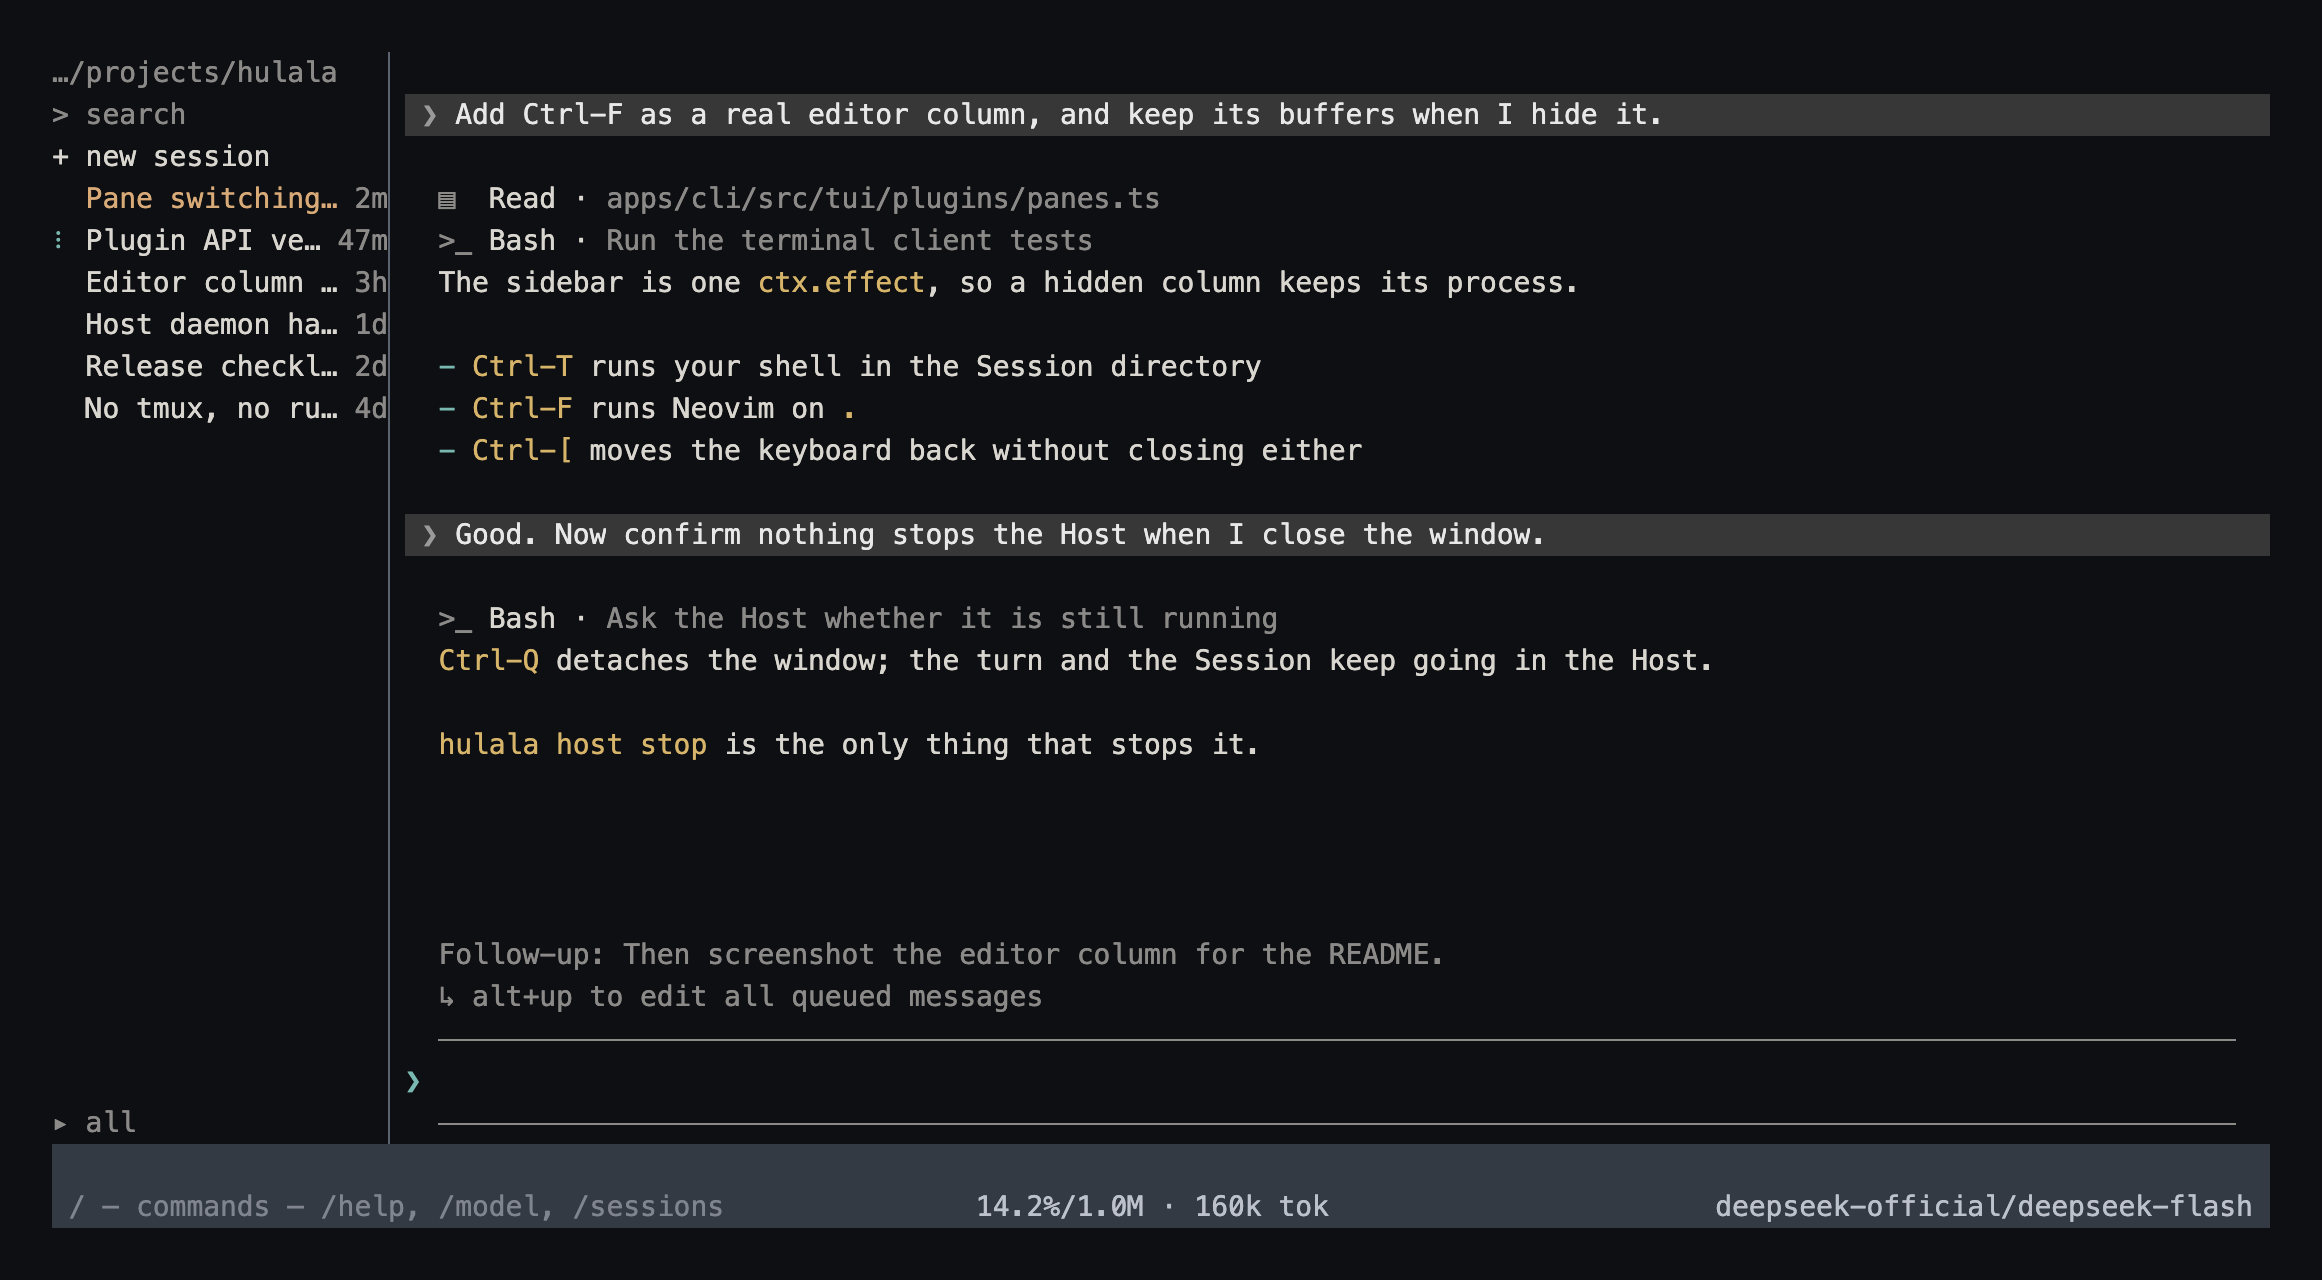
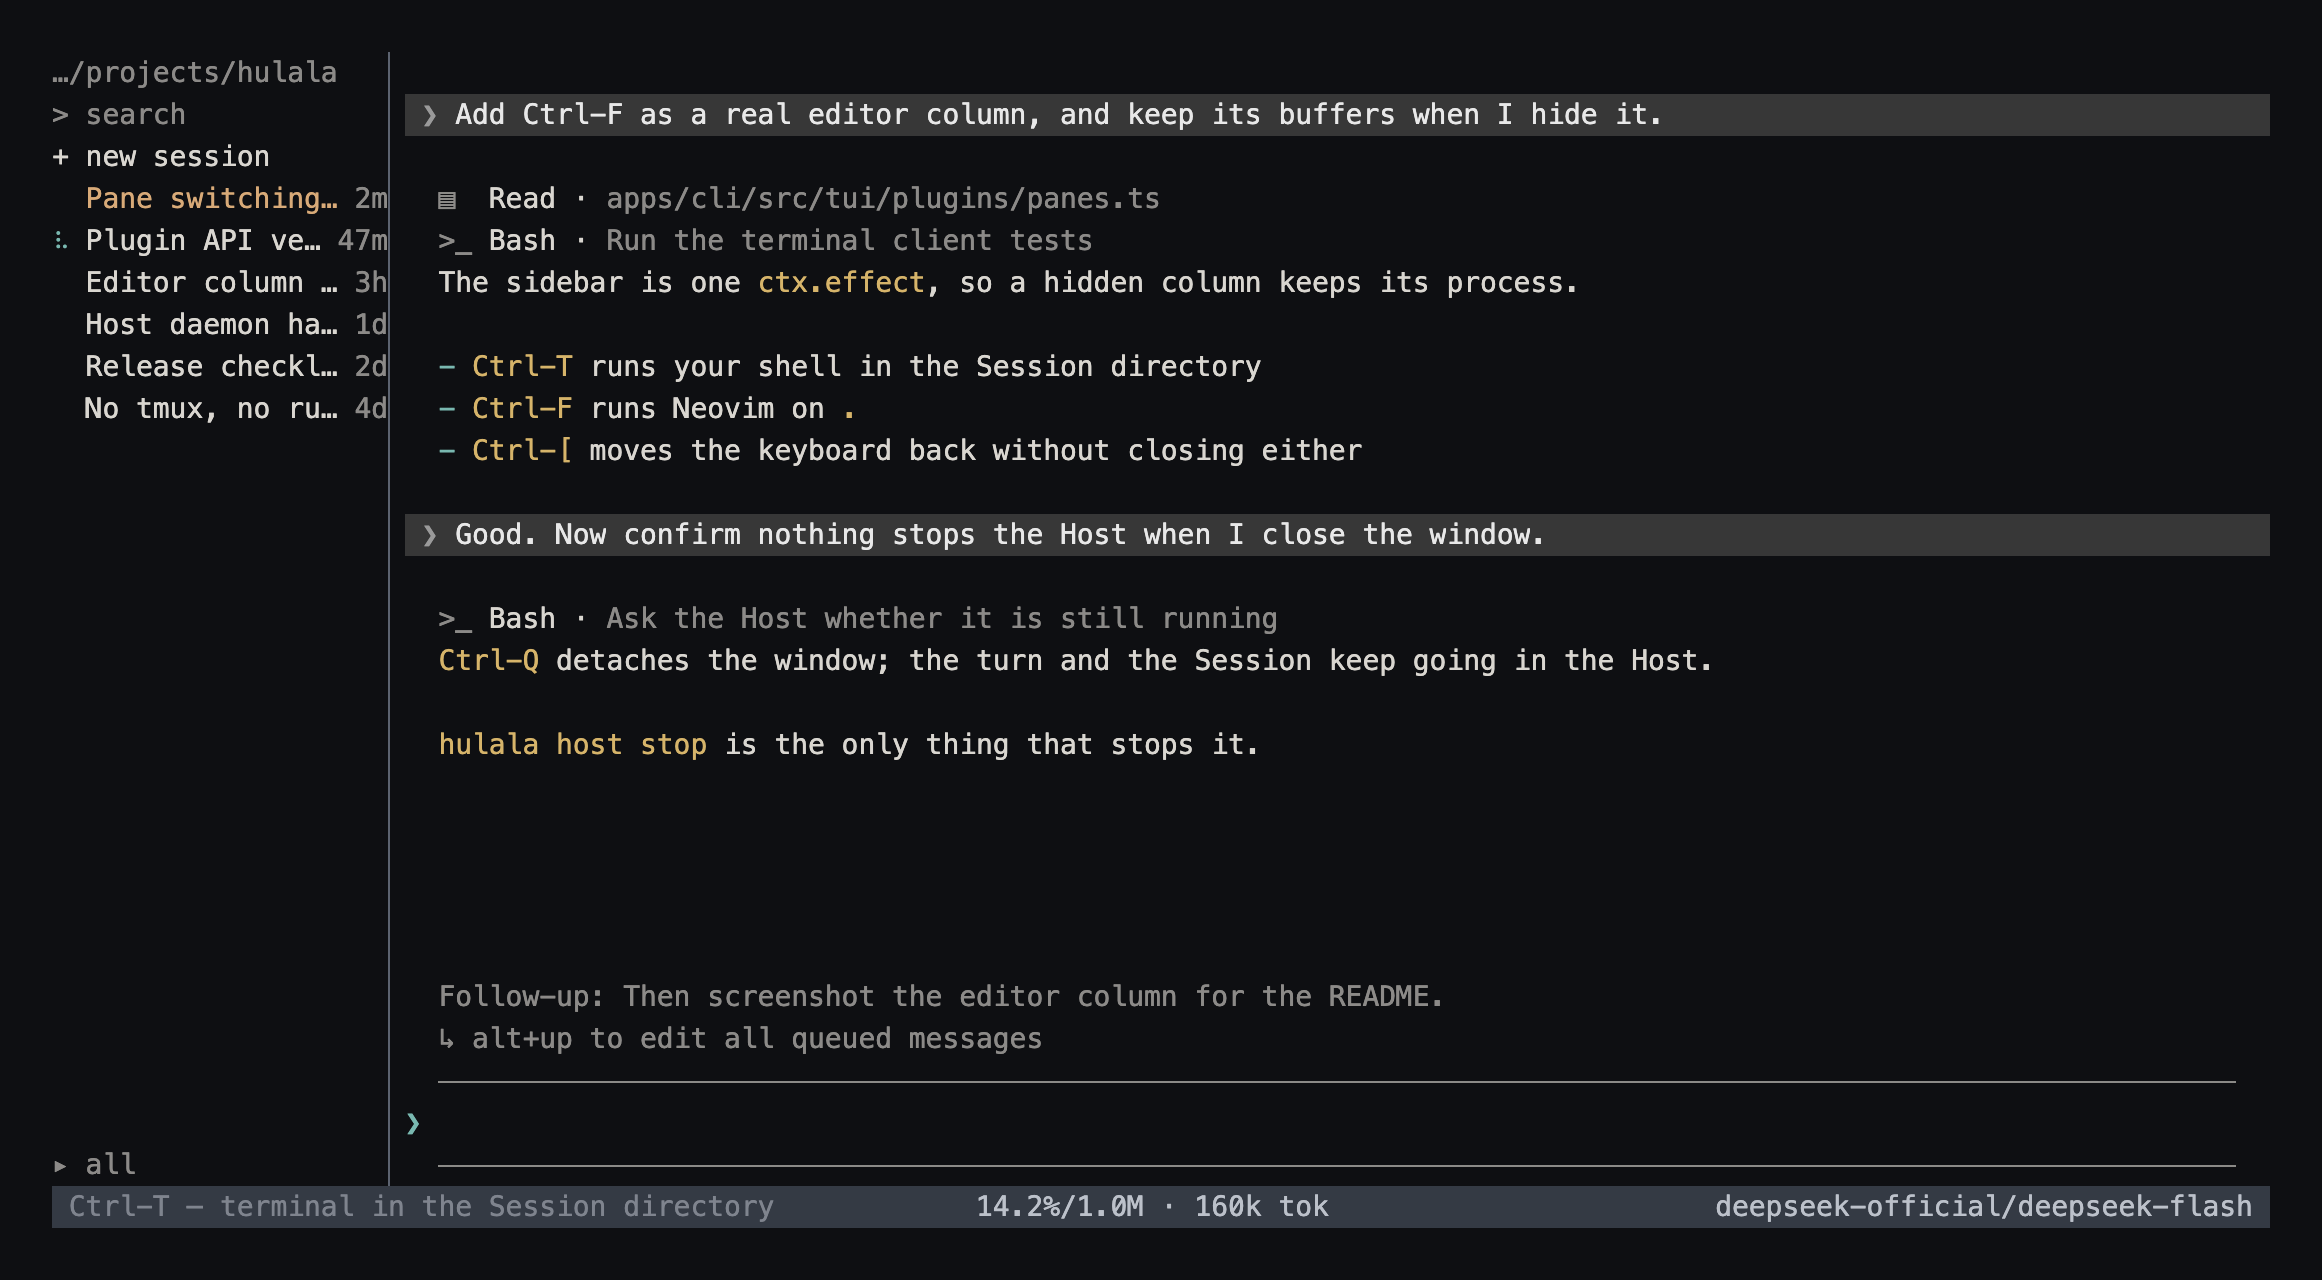
Keep the status band one row tall
The band is the frame's last row, not a panel: the extra blank row I put above
its text made the footer occupy two rows and pushed the columns up for nothing.
The band is back to a single row, with the usage hint on the left, the centred
readings and the model on the right inside it.

Release 0.2.5.

Changed region(s): [[0.0, 0.875, 0.9922, 0.9688], [0.186, 0.7188, 0.6202, 0.8438]]

diff --git a/apps/cli/tests/client/layout.test.ts b/apps/cli/tests/client/layout.test.ts
@@ -41,16 +41,15 @@ test('a long transcript never takes height away from the composer', () => {
   const frame = renderLayoutFrame(layout.root, 60, 20, () => undefined)
   const [transcript, dock] = frame.root.children
   expect(frame.lines).toHaveLength(20)
-  expect(transcript?.rect.height).toBe(13) // 20 - dock; the transcript reaches the top
-  expect(dock?.rect.height).toBe(7) // pending + cwd + composer + band (air row + row)
-  expect(dock?.children.map(child => child.rect.height)).toEqual([1, 1, 3, 2])
-  expect(frame.lines.slice(-7)).toEqual([
+  expect(transcript?.rect.height).toBe(14) // 20 - dock; the transcript reaches the top
+  expect(dock?.rect.height).toBe(6) // pending + cwd + composer + band
+  expect(dock?.children.map(child => child.rect.height)).toEqual([1, 1, 3, 1])
+  expect(frame.lines.slice(-6)).toEqual([
     'pending'.padEnd(60),
     'cwd'.padEnd(60),
     'composer'.padEnd(60),
     'composer'.padEnd(60),
     'composer'.padEnd(60),
-    ' '.repeat(60), // the band's air row
     'status'.padEnd(60),
   ])
 })
@@ -66,8 +65,7 @@ test('the composer keeps both rules around the arrow when the transcript is long
   // Fill the terminal the way a few turns of a Session do.
   const frame = renderLayoutFrame(layout.root, 80, 30, () => undefined)
   const rows = frame.lines.map(strip)
-  // The band is two rows (air, then text), the composer the three above it.
-  const composerRows = rows.slice(-5, -2)
+  const composerRows = rows.slice(-4, -1)
   expect(composerRows).toHaveLength(3)
   // The rules stop at the body's gutter on both sides: they belong to the
   // composer, and a rule that reached the column edge would touch a divider.
@@ -90,15 +88,15 @@ test('the columns end on the last row above the status band', () => {
   const frame = renderLayoutFrame(layout.root, 120, 24, () => undefined)
   const rows = frame.lines.map(strip)
   const [columns, status] = frame.root.children
-  // The band and its air row are the only rows the columns do not own.
-  expect(columns?.rect.height).toBe(22)
-  expect(status?.rect.height).toBe(2)
+  // The band is the only row the columns do not own.
+  expect(columns?.rect.height).toBe(23)
+  expect(status?.rect.height).toBe(1)
   expect(rows.at(-1)?.startsWith('status')).toBe(true)
   // There is no frame rule row: the only horizontal lines are the composer's,
   // and they are inset inside the conversation column.
   expect(rows.some(row => /^─+$/u.test(row))).toBe(false)
-  expect(rows.at(-3)).toContain('  ─')
-  expect(rows.at(-3)?.endsWith('  ')).toBe(true)
+  expect(rows.at(-2)).toContain('  ─')
+  expect(rows.at(-2)?.endsWith('  ')).toBe(true)
 })
 
 test('a short terminal drops chrome rows instead of clipping the composer', () => {
@@ -131,8 +129,8 @@ test('the editor column splits the width without touching the composer height', 
   const frame = renderLayoutFrame(layout.root, 100, 24, () => undefined)
   const [columns, status] = frame.root.children
   expect(frame.lines).toHaveLength(24)
-  expect(columns?.rect.height).toBe(22) // 24 - band (air row + row); the editor reaches the top
-  expect(status?.rect.height).toBe(2)
+  expect(columns?.rect.height).toBe(23) // 24 - band; the editor reaches the top
+  expect(status?.rect.height).toBe(1)
   // One gap column between the two columns, and the status bar spans both.
   const [conversation, divider, pane] = columns?.children ?? []
   expect(divider?.rect.width).toBe(1)
@@ -140,10 +138,10 @@ test('the editor column splits the width without touching the composer height', 
   expect(conversation?.rect.width).toBe(50)
   expect(pane?.rect.width).toBe(49)
   expect(pane?.rect.x).toBe(51) // one divider column, then the pane
-  expect(pane?.rect.height).toBe(22) // 24 - band (air row + row)
+  expect(pane?.rect.height).toBe(23) // 24 - band
   // The composer keeps its three rows inside the narrower left column.
   const leftChildren = conversation?.children ?? []
-  expect(leftChildren.map(child => child.rect.height)).toEqual([17, 1, 1, 3])
+  expect(leftChildren.map(child => child.rect.height)).toEqual([18, 1, 1, 3])
   const row = strip(frame.lines[5] ?? '')
   expect(row).toContain('line') // the transcript still paints the left column
   expect(row).toContain('nvim') // and the editor paints the right one
@@ -186,7 +184,7 @@ test('the side columns fill the frame when the conversation is put away', () => 
     statusBar: slab('status', 1),
   }).root, 100, 24, () => undefined)
   const [columns, status] = frame.root.children
-  expect(status?.rect.height).toBe(2)
+  expect(status?.rect.height).toBe(1)
   // The pane keeps its width and the rail absorbs the rest of the frame.
   const [railBox, divider, paneBox] = columns?.children ?? []
   expect(railBox?.rect).toMatchObject({ x: 0, width: 59 })
@@ -266,9 +264,9 @@ test('the rail, the conversation and the editor each get their columns', () => {
   expect(divider?.rect.x).toBe(87)
   expect(editor?.rect).toMatchObject({ x: 88, width: 32 })
   // The band is one surface across the whole frame, from the first column to the
-  // last, with a row of air above its text.
+  // last, and it is one row tall.
   const footer = withEditor.root.children[1]
-  expect(footer?.rect).toMatchObject({ x: 0, width: 120, y: 22, height: 2 })
+  expect(footer?.rect).toMatchObject({ x: 0, width: 120, y: 23, height: 1 })
   const statusLine = strip(withEditor.lines.at(-1) ?? '')
   expect(statusLine.trim()).toStartWith('status')
 

diff --git a/apps/cli/src/tui/view/layout.ts b/apps/cli/src/tui/view/layout.ts
@@ -56,29 +56,6 @@ function chatEntries(options: TerminalLayoutOptions): NonNullable<ConstructorPar
   ]
 }
 
-/**
- * The status band with a row of air above its text.
- *
- * The band is a filled surface, and text sitting directly under the composer's
- * bottom rule reads as if it were pressed against it. One band-coloured blank
- * row gives the text the same gutter the band already has at its sides, without
- * drawing a line the column dividers would meet.
- */
-class StatusBand implements Component {
-  constructor(private readonly bar: Component) {}
-  invalidate(): void {
-    this.bar.invalidate()
-  }
-  render(width: number): string[] {
-    const [line = ''] = this.bar.render(width)
-    // The band's fill and ink are the first line's own SGR run; nothing here
-    // needs to know which colours they are.
-    const open = /^(?:\u001b\[[0-9;]*m)+/u.exec(line)?.[0] ?? ''
-    const blank = `${open}${' '.repeat(Math.max(0, width))}${open === '' ? '' : '\u001b[0m'}`
-    return [blank, line]
-  }
-}
-
 /** Left column that reports pointer presence while keeping normal mouse routing. */
 class ConversationColumn extends VStack {
   constructor(children: ConstructorParameters<typeof VStack>[0], private readonly onPointer: () => void) {
@@ -209,7 +186,7 @@ export function buildTerminalLayout(options: TerminalLayoutOptions): TerminalLay
   const dock = new VStack([
     ...chatEntries(options),
     { component: options.editor, shrink: 1, minSize: COMPOSER_MIN_SIZE },
-    { component: new StatusBand(options.statusBar), shrink: 1, minSize: 0 },
+    { component: options.statusBar, shrink: 1, minSize: 0 },
   ])
 
   const root = new VStack([
@@ -263,7 +240,7 @@ export function buildRailTerminalLayout(options: RailLayoutOptions): SplitTermin
   // The columns end above it, so no divider is drawn against it.
   const root = new VStack([
     { component: columns, basis: 0, grow: 1, shrink: 1, minSize: 1 },
-    { component: new StatusBand(options.statusBar), shrink: 0 },
+    { component: options.statusBar, shrink: 0 },
   ])
 
   /** Move the editor divider; without a pane this layout has nothing to resize. */
@@ -309,7 +286,7 @@ export function buildSideColumnsLayout(options: SideColumnsLayoutOptions): SideC
   // side columns end above it, as they do when the conversation is on screen.
   const root = new VStack([
     { component: columns, basis: 0, grow: 1, shrink: 1, minSize: 1 },
-    { component: new StatusBand(options.statusBar), shrink: 0 },
+    { component: options.statusBar, shrink: 0 },
   ])
 
   /** Move the divider; a lone column has no second width to trade against. */
@@ -357,7 +334,7 @@ export function buildSplitTerminalLayout(options: SplitTerminalLayoutOptions): S
 
   const root = new VStack([
     { component: columns, basis: 0, grow: 1, shrink: 1, minSize: 1 },
-    { component: new StatusBand(options.statusBar), shrink: 0 },
+    { component: options.statusBar, shrink: 0 },
   ])
 
   /**

diff --git a/apps/cli/src/tui/plugins/rail.ts b/apps/cli/src/tui/plugins/rail.ts
@@ -80,8 +80,8 @@ export function apply(ctx: Context, config: RailPluginConfig): void {
   let timerMs = 0
   let lastCwd = session.cwd
 
-  // Two rows belong to the frame: the status band and the row of air above it.
-  const pageRows = (): number => Math.max(1, (terminal.rows - 2) - 4)
+  // One row belongs to the frame: the status band under the columns.
+  const pageRows = (): number => Math.max(1, (terminal.rows - 1) - 4)
 
   const rail = new SessionRail({
     state: () => ({
@@ -95,7 +95,7 @@ export function apply(ctx: Context, config: RailPluginConfig): void {
       pageRows: pageRows(),
       now: Date.now(),
     }),
-    rows: () => Math.max(4, terminal.rows - 2),
+    rows: () => Math.max(4, terminal.rows - 1),
     color: config.color,
     focused: () => focused,
     onOpen: id => { void session.open(id).finally(() => blur()) },
@@ -105,7 +105,7 @@ export function apply(ctx: Context, config: RailPluginConfig): void {
     onRevealed: (next: boolean) => { revealed = next; render.request() },
     onRefresh: () => { void session.refresh() },
   })
-  const divider = columnRule(() => Math.max(1, terminal.rows - 2), config.color)
+  const divider = columnRule(() => Math.max(1, terminal.rows - 1), config.color)
 
   layout.register('rail', {
     id: 'sessions',

diff --git a/apps/cli/src/tui/plugins/panes.ts b/apps/cli/src/tui/plugins/panes.ts
@@ -157,8 +157,8 @@ export function apply(ctx: Context, config: PanesPluginConfig): void {
    */
   const ratios: Record<PaneKind, number> = { terminal: 1 / 3, editor: 1 / 3 }
 
-  // The frame owns the last two rows: the status band and its air row.
-  const rows = (): number => Math.max(1, terminal.rows - 2)
+  // The frame owns the last row: the status band under the columns.
+  const rows = (): number => Math.max(1, terminal.rows - 1)
 
   const columns = (kind: PaneKind): number => {
     const wanted = Math.round(terminal.columns * ratios[kind])

diff --git a/apps/website/app/WebInstallCommand.tsx b/apps/website/app/WebInstallCommand.tsx
@@ -3,7 +3,7 @@
 import { useState } from "react";
 
 const COMMAND = "curl -fsSL https://hulala.ai/install.sh | sh";
-const VERSION = "0.2.4";
+const VERSION = "0.2.5";
 
 export default function WebInstallCommand({ locale }: { locale: "en" | "zh-CN" }) {
   const zh = locale === "zh-CN";
